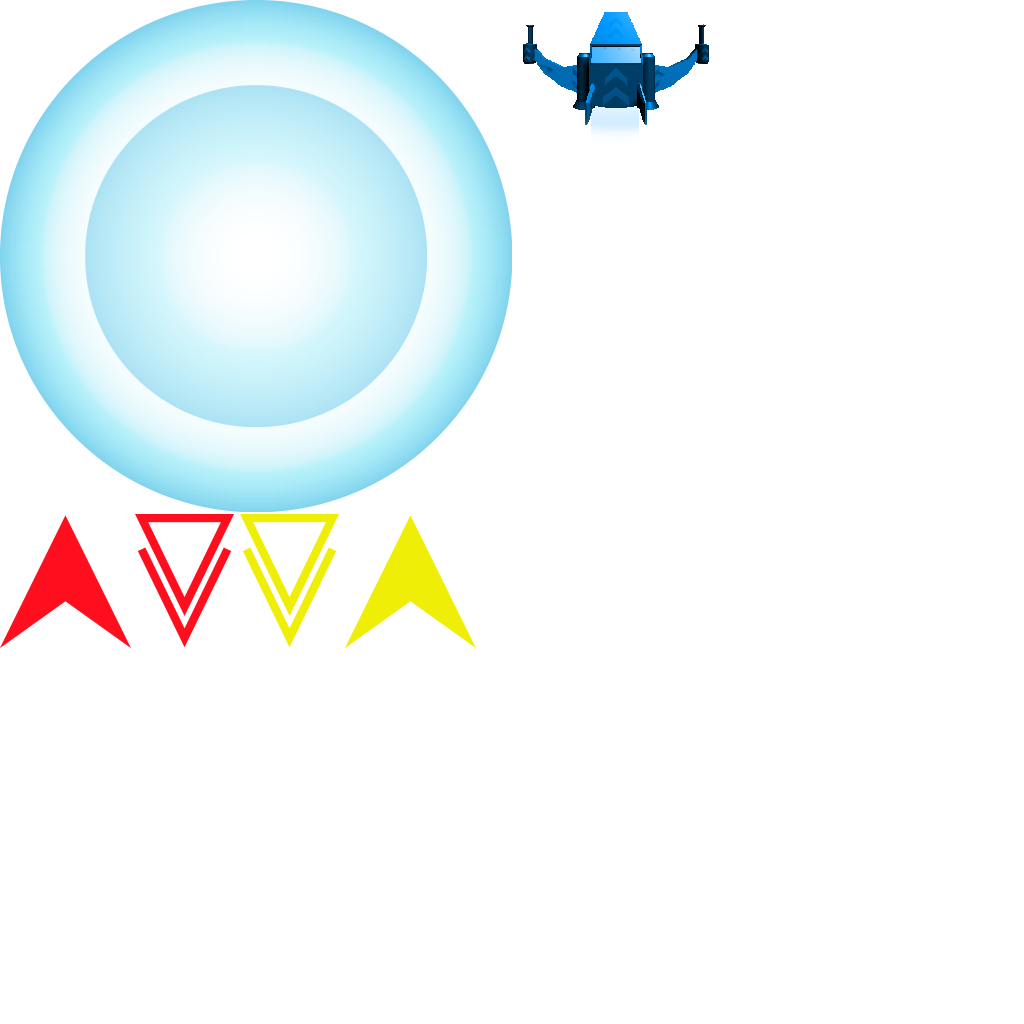
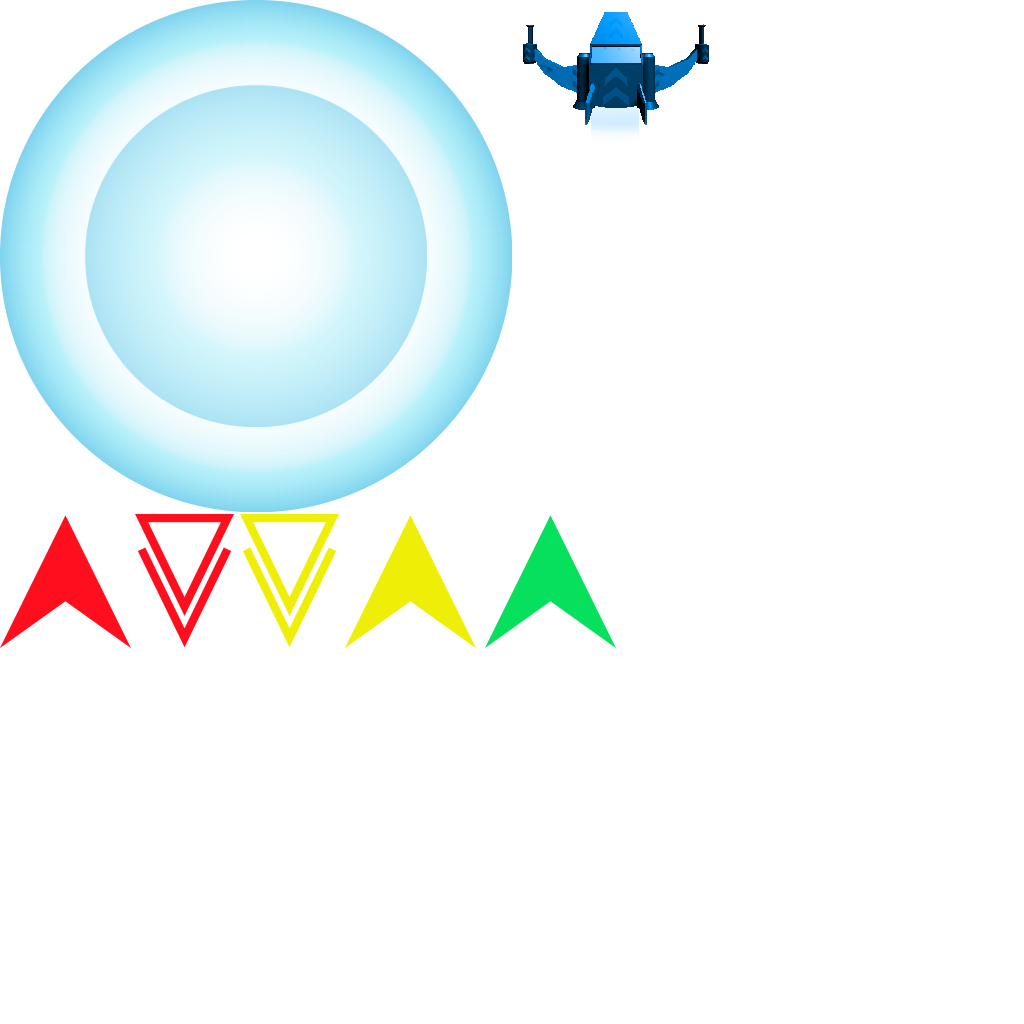
Allies in the radar

Changed region(s): [[0.4688, 0.5, 0.5938, 0.625]]

diff --git a/CSS/Assets/Scripts/RadarController.cs b/CSS/Assets/Scripts/RadarController.cs
@@ -7,13 +7,15 @@ public class RadarController : MonoBehaviour
 {
 
     public Canvas radarBaseCanvas;
-    public GameObject enemyPointer;
+    public GameObject radarPointer;
 	public GameObject playerShip;
 
     public List<GameObject> enemyPointerList = new List<GameObject>();
+    public List<GameObject> alliesPointerList = new List<GameObject>();
 
-    public Sprite enemyPointerArrowRed;
-    public Sprite enemyPointerArrowYellow;
+    public Sprite radarPointerArrowRed;
+    public Sprite radarPointerArrowYellow;
+    public Sprite radarPointerArrowGreen;
 
 
     private float maxRadarWorldRange = 1000;
@@ -29,8 +31,15 @@ public class RadarController : MonoBehaviour
     {
         foreach (GameObject myEnemyShip in GameManager.Instance.enemyList)
         {
-            GameObject myEnemyPointer = Instantiate(enemyPointer, transform);
+            GameObject myEnemyPointer = Instantiate(radarPointer, transform);
             enemyPointerList.Add(myEnemyPointer);
+        }
+
+        foreach (GameObject myAlliedShip in GameManager.Instance.wingmanList)
+        {
+            GameObject myAlliedPointer = Instantiate(radarPointer, transform);
+            myAlliedPointer.GetComponent<Image>().sprite = radarPointerArrowGreen;
+            alliesPointerList.Add(myAlliedPointer);
         }
     }
 
@@ -40,7 +49,7 @@ public class RadarController : MonoBehaviour
  
         transform.position = new Vector3(playerShip.transform.position.x, 5, playerShip.transform.position.z);
 
-        // Update Pointers
+        // Update Pointers Enemies
         for (int i = 0; i < enemyPointerList.Count; i++)
         {
             // adjust rotation
@@ -63,6 +72,31 @@ public class RadarController : MonoBehaviour
             enemyPointerList[i].gameObject.GetComponent<CanvasGroup>().alpha = alphaAmount;
 
         }
+
+        // Update Pointers Allies
+        for (int i = 0; i < alliesPointerList.Count; i++)
+        {
+            // adjust rotation
+            alliesPointerList[i].transform.rotation = Quaternion.Euler(new Vector3(90, GameManager.Instance.wingmanList[i].transform.eulerAngles.y, 0));
+
+            // adjust position
+            float allyPositionX = GameManager.Instance.wingmanList[i].transform.position.x - playerShip.transform.position.x;
+            float allyPositionY = GameManager.Instance.wingmanList[i].transform.position.z - playerShip.transform.position.z;
+
+            float newXposition = Utils.convertToNewRange(-maxRadarWorldRange, +maxRadarWorldRange, -maxRadarCanvasRange, maxRadarCanvasRange, allyPositionX);
+            float newYposition = Utils.convertToNewRange(-maxRadarWorldRange, +maxRadarWorldRange, -maxRadarCanvasRange, maxRadarCanvasRange, allyPositionY);
+
+            alliesPointerList[i].transform.localPosition = new Vector3(newXposition, 1, newYposition);
+
+            // adjust alpha
+
+            float distanceToPlayer = Mathf.Clamp(Vector3.Distance(GameManager.Instance.wingmanList[i].transform.position, playerShip.transform.position), 0, maxRadarWorldRange);
+            float alphaAmount = pointerMaxAlpha - Utils.convertToNewRange(0, maxRadarWorldRange, 0, pointerMaxAlpha, distanceToPlayer);
+
+            alliesPointerList[i].gameObject.GetComponent<CanvasGroup>().alpha = alphaAmount;
+
+        }
+
     }
 
 
@@ -71,12 +105,12 @@ public class RadarController : MonoBehaviour
     {
         for (int i = 0; i < enemyPointerList.Count; i++)
         {
-            enemyPointerList[i].GetComponent<Image>().sprite = enemyPointerArrowRed;
+            enemyPointerList[i].GetComponent<Image>().sprite = radarPointerArrowRed;
         }
 
         if (enemyID != -1)
         {
-            enemyPointerList[enemyID].GetComponent<Image>().sprite = enemyPointerArrowYellow;
+            enemyPointerList[enemyID].GetComponent<Image>().sprite = radarPointerArrowYellow;
         }
 
     }
